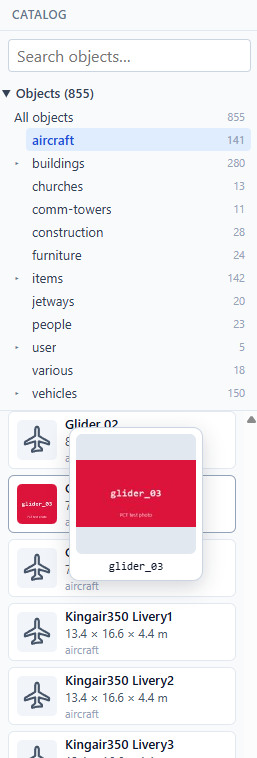
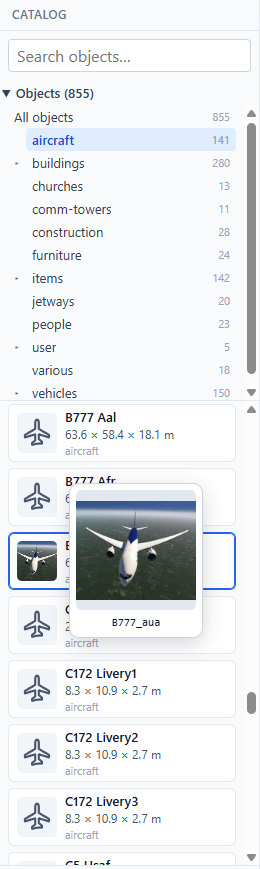
docs(guide): a real photo on the card section 10 is about
The first take of shot 11 used a test placeholder — a red rectangle reading
"PCT test photo" — on the one frame whose whole job is to show why you would
put your own photos on the cards. Replaced with a B777 shot in the sim, hover
preview enlarging it, the exact id underneath, among cards still carrying the
drawn icon.

Shot by Juan.

diff --git a/guide/images/README.md b/guide/images/README.md
@@ -69,9 +69,10 @@ Lights and plants, section 7:
 
 Dialogs:
 
-- `11_photo_on_cards.jpg` — a card carrying a photo among cards still showing the drawn icon, hover
-  preview open, the exact id spelled out. Section 10's payoff. The photo on it is a test placeholder;
-  a real in-sim shot would sell the feature harder.
+- `11_photo_on_cards.jpg` — a card carrying a real in-sim photo of a B777 among cards still showing
+  the drawn icon, hover preview enlarging it, the exact id spelled out. Section 10's payoff, and the
+  hole that section carried from the day it was written. Re-shot: the first take used a test
+  placeholder, which undersold the feature it exists to sell.
 - `12_set_footprint.jpg` — the footprint dialog on a light fixture, figures typed in.
 - `13_settings.jpg` — Settings entire: both folders, the photos folder, map tiles, elevation
   provider, Rescan, the footprints Import / Export, Diagnostics. Sections 2, 10 and 12 all send the

diff --git a/guide/GUIDE.md b/guide/GUIDE.md
@@ -603,7 +603,7 @@ That's it: no filename to type, no id to match. The card knows which object it i
 the exact name at the top — so the file is named correctly by construction. **Open photos folder** is
 in the same menu, and **Remove photo** joins it once the card has one.
 
-![Shot 11 — one card carrying a photo among cards still showing the drawn icon, with the hover preview open on it and the object's exact id spelled out underneath](images/11_photo_on_cards.jpg)
+![Shot 11 — one card carrying a photo taken in the sim, among cards still showing the drawn icon, with the hover preview enlarging it and the object's exact id spelled out underneath](images/11_photo_on_cards.jpg)
 
 From then on the card carries the photo everywhere it appears, and resting the mouse on it enlarges
 the shot — which is the point: two runway light fixtures that share one glyph stop being
